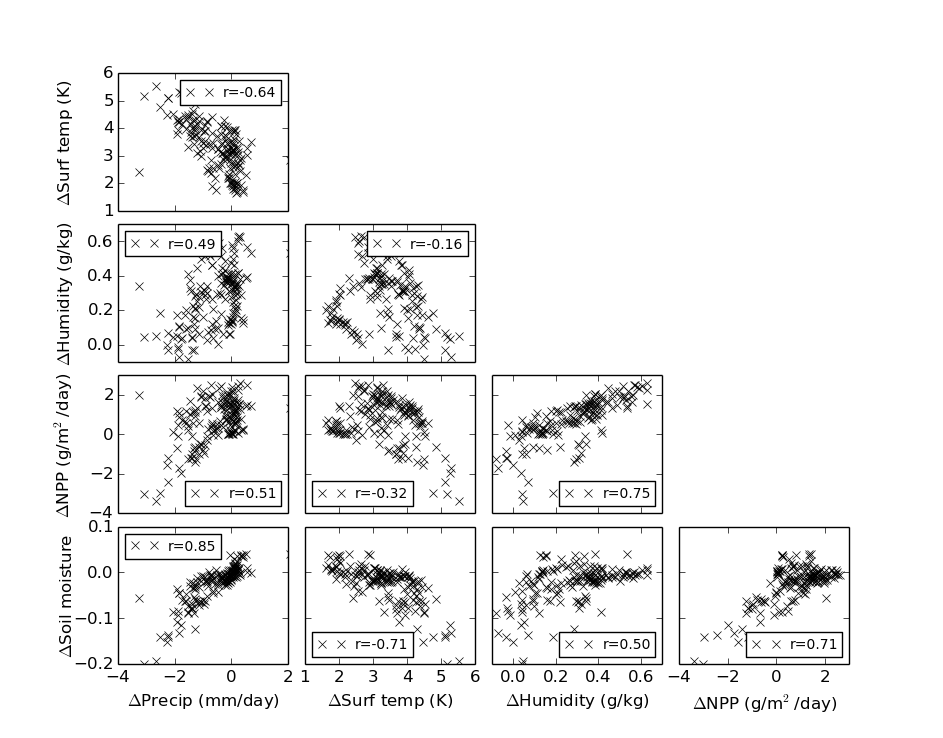
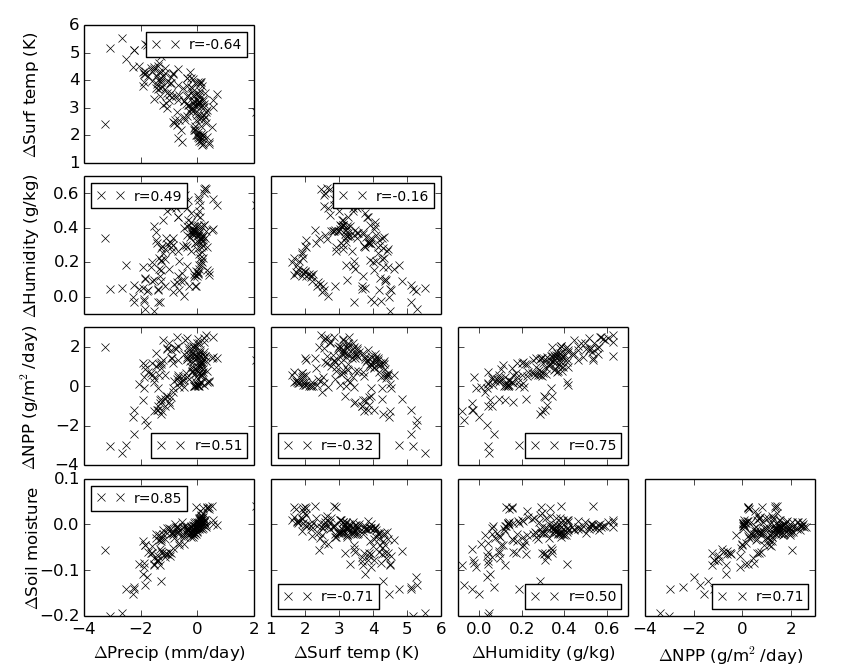
Add captions to figures, crop figures.

Changed region(s): [[0.0309, 0.0312, 0.9893, 1.0]]

diff --git a/article.tex b/article.tex
@@ -126,7 +126,7 @@ Discussion about Figure \ref{fig:global_temp_precip} to go here.
 \begin{figure}[hbp]
     \centering
     \includegraphics[width=\textwidth]{figures/global_temp_precip}
-    \caption{Caption.}
+    \caption{Global annual, December-February (DJF) and June-August (JJA) maps of the difference between the 1\%py and control scenarios for surface temperature and precipitation (top three left and right). Seasonal and zonal mean differences between the 1\% and control scenarios for temperature and precipitation (bottom two left and right).}
     \label{fig:global_temp_precip}
 \end{figure}
 
@@ -138,7 +138,7 @@ Discussion about Figure \ref{fig:sa_seasonal} to go here.
 \begin{figure}[hbp]
     \centering
     \includegraphics[width=\textwidth]{figures/sa_seasonal}
-    \caption{Caption.}
+    \caption{Seasonal variation of the difference between the 1\%py and control scenarios for precipitation and surface temperature for South America.}
     \label{fig:sa_seasonal}
 \end{figure}
 
@@ -150,7 +150,7 @@ Discussion about Figure \ref{fig:sa_diff} to go here.
 \begin{figure}[hbp]
     \centering
     \includegraphics[width=\textwidth]{figures/sa_diff}
-    \caption{Caption.}
+    \caption{Annual mean of the difference between the 1\%py and control scenarios for precipitation, surface temperature, humidity, NPP, and soil moisture for South America.}
     \label{fig:sa_diff}
 \end{figure}
 
@@ -160,7 +160,7 @@ Paragraph about Figure \ref{fig:corr} plots.
 \begin{figure}[hbp]
     \centering
     \includegraphics[width=\textwidth]{figures/corr}
-    \caption{Caption.}
+    \caption{Scatter plots of the difference between the 1\%py and control scenarios for precipitation, surface temperature, humidity, NPP, and soil moisture for South America. Each pair of variables is represented once. Pearson's r value is shown. For all graphs apart from humidity-surface temperature $p < 0.001$, for humidity-surface temperature $p = 0.034$. }
     \label{fig:corr}
 \end{figure}
 
